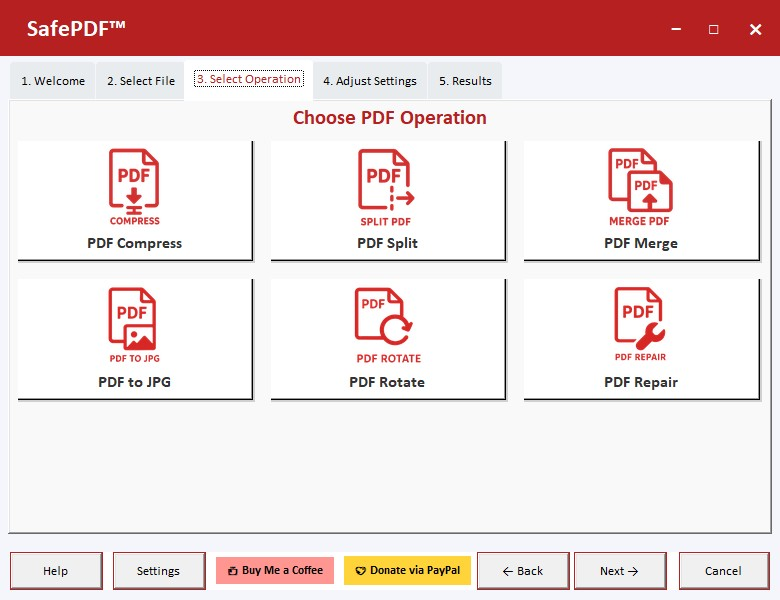
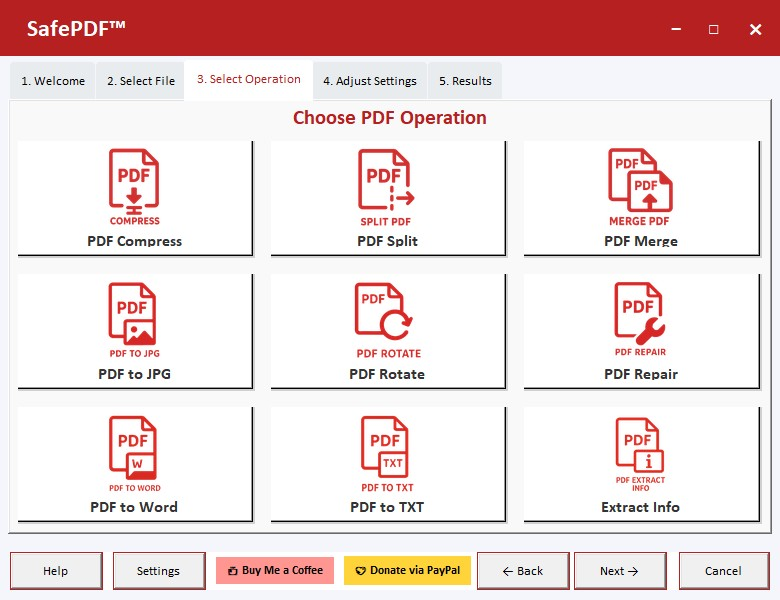
Adds PDF conversion and info extraction features
Adds functionality to convert PDFs to Word and TXT formats.

Implements a feature to extract hidden information and metadata from PDF files.

Includes UI enhancements for new functionalities and updates dependencies.

Changed region(s): [[0.0, 0.39, 0.9846, 0.9]]

diff --git a/SafePDF/pdf_operations.py b/SafePDF/pdf_operations.py
@@ -582,7 +582,173 @@ class PDFOperations:
                 
         except Exception as e:
             return {"error": str(e)}
+    
+    def pdf_to_txt(self, input_path: str, output_path: str) -> Tuple[bool, str]:
+        """
+        Extract text from PDF and save to TXT file
         
+        Args:
+            input_path: Path to input PDF file
+            output_path: Path to output TXT file
+            
+        Returns:
+            Tuple of (success: bool, message: str)
+        """
+        try:
+            if not PdfReader:
+                return False, "PyPDF2/pypdf not available"
+            
+            with open(input_path, 'rb') as file:
+                reader = PdfReader(file)
+                text_content = ""
+                
+                total_pages = len(reader.pages)
+                for i, page in enumerate(reader.pages):
+                    self.update_progress(int((i + 1) / total_pages * 100))
+                    if self._cancel_requested:
+                        return False, "Operation cancelled"
+                    
+                    text_content += page.extract_text() + "\n\n"
+                
+            with open(output_path, 'w', encoding='utf-8') as txt_file:
+                txt_file.write(text_content)
+                
+            return True, f"Text extracted to {output_path}"
+            
+        except Exception as e:
+            return False, f"Text extraction failed: {str(e)}"
+    
+    def extract_hidden_info(self, input_path: str, output_path: str) -> Tuple[bool, str]:
+        """
+        Extract hidden information and metadata from PDF
+        
+        Args:
+            input_path: Path to input PDF file
+            output_path: Path to output TXT file with extracted info
+            
+        Returns:
+            Tuple of (success: bool, message: str)
+        """
+        try:
+            if not PdfReader:
+                return False, "PyPDF2/pypdf not available"
+            
+            info = self.get_pdf_info(input_path)
+            if "error" in info:
+                return False, info["error"]
+            
+            # Extract additional hidden information
+            hidden_info = []
+            hidden_info.append("=== PDF METADATA ===")
+            hidden_info.append(f"Title: {info.get('title', 'N/A')}")
+            hidden_info.append(f"Author: {info.get('author', 'N/A')}")
+            hidden_info.append(f"Creator: {info.get('creator', 'N/A')}")
+            hidden_info.append(f"Producer: {info.get('producer', 'N/A')}")
+            hidden_info.append(f"Pages: {info.get('pages', 'N/A')}")
+            hidden_info.append(f"File Size: {info.get('file_size', 'N/A')} bytes")
+            
+            # Try to extract more detailed info
+            try:
+                with open(input_path, 'rb') as file:
+                    reader = PdfReader(file)
+                    
+                    # Check for JavaScript
+                    if hasattr(reader, 'javascript') and reader.javascript:
+                        hidden_info.append("\n=== JAVASCRIPT FOUND ===")
+                        for js in reader.javascript:
+                            hidden_info.append(f"JavaScript: {js}")
+                    
+                    # Check for embedded files
+                    if hasattr(reader, 'attachments') and reader.attachments:
+                        hidden_info.append("\n=== EMBEDDED FILES ===")
+                        for name, data in reader.attachments.items():
+                            hidden_info.append(f"Attachment: {name} ({len(data)} bytes)")
+                    
+                    # Check for form fields
+                    if hasattr(reader, 'get_fields') and reader.get_fields():
+                        hidden_info.append("\n=== FORM FIELDS ===")
+                        fields = reader.get_fields()
+                        for field_name, field in fields.items():
+                            hidden_info.append(f"Field: {field_name} - {field.get('/FT', 'Unknown type')}")
+                            
+            except Exception as e:
+                hidden_info.append(f"\nError extracting additional info: {str(e)}")
+            
+            # Write to output file
+            with open(output_path, 'w', encoding='utf-8') as f:
+                f.write('\n'.join(hidden_info))
+            
+            return True, f"Hidden information extracted to {output_path}"
+            
+        except Exception as e:
+            return False, f"Hidden info extraction failed: {str(e)}"
+    
+    def pdf_to_word(self, input_path: str, output_path: str) -> Tuple[bool, str]:
+        """
+        Convert PDF to Word document
+        
+        Args:
+            input_path: Path to input PDF file
+            output_path: Path to output DOCX file
+            
+        Returns:
+            Tuple of (success: bool, message: str)
+        """
+        try:
+            # Try to import python-docx
+            try:
+                from docx import Document
+                from docx.shared import Inches
+            except ImportError:
+                return False, "python-docx not installed. Please install with: pip install python-docx"
+            
+            if not fitz:
+                return False, "PyMuPDF not available for PDF to Word conversion"
+            
+            # Open PDF with PyMuPDF
+            doc = Document()
+            pdf_document = fitz.open(input_path)
+            
+            total_pages = len(pdf_document)
+            for page_num in range(total_pages):
+                self.update_progress(int((page_num + 1) / total_pages * 100))
+                if self._cancel_requested:
+                    return False, "Operation cancelled"
+                
+                page = pdf_document.load_page(page_num)
+                text = page.get_text()
+                
+                # Add page content to document
+                doc.add_heading(f'Page {page_num + 1}', level=1)
+                doc.add_paragraph(text)
+                
+                # Try to extract images
+                image_list = page.get_images(full=True)
+                for img_index, img in enumerate(image_list):
+                    xref = img[0]
+                    base_image = pdf_document.extract_image(xref)
+                    image_bytes = base_image["image"]
+                    image_ext = base_image["ext"]
+                    
+                    # Save image temporarily and add to doc
+                    temp_img_path = f"temp_image_{page_num}_{img_index}.{image_ext}"
+                    with open(temp_img_path, "wb") as img_file:
+                        img_file.write(image_bytes)
+                    
+                    try:
+                        doc.add_picture(temp_img_path, width=Inches(4))
+                        unlink(temp_img_path)  # Clean up temp file
+                    except:
+                        unlink(temp_img_path)  # Clean up even if add fails
+            
+            pdf_document.close()
+            doc.save(output_path)
+            
+            return True, f"PDF converted to Word document: {output_path}"
+            
+        except Exception as e:
+            return False, f"PDF to Word conversion failed: {str(e)}"
+    
     def _show_compression_error_popup(self):
         """
         Show a custom popup with compression error gif when no compression is achieved

diff --git a/SafePDF/safe_pdf_controller.py b/SafePDF/safe_pdf_controller.py
@@ -57,7 +57,7 @@ class SafePDFController:
     
     def select_operation(self, operation):
         """Select a PDF operation"""
-        valid_operations = ["compress", "split", "merge", "to_jpg", "rotate", "repair"]
+        valid_operations = ["compress", "split", "merge", "to_jpg", "rotate", "repair", "to_word", "to_txt", "extract_info"]
         if operation in valid_operations:
             self.selected_operation = operation
             return True
@@ -89,9 +89,16 @@ class SafePDFController:
                 return custom_output_path, None
         
         # Default paths with minimal processing
-        if self.selected_operation in ["compress", "rotate", "repair"]:
+        if self.selected_operation in ["compress", "rotate", "repair", "to_word", "to_txt", "extract_info"]:
             base_name = os_path.splitext(self.selected_file)[0]
-            return f"{base_name}_{self.selected_operation}.pdf", None
+            if self.selected_operation == "to_word":
+                return f"{base_name}.docx", None
+            elif self.selected_operation == "to_txt":
+                return f"{base_name}.txt", None
+            elif self.selected_operation == "extract_info":
+                return f"{base_name}_info.txt", None
+            else:
+                return f"{base_name}_{self.selected_operation}.pdf", None
         else:
             base_dir = os_path.dirname(self.selected_file)
             base_name = os_path.splitext(os_path.basename(self.selected_file))[0]
@@ -176,6 +183,24 @@ class SafePDFController:
                     except Exception as e:
                         success = False
                         message = f"Merge failed: {e}"
+            
+            elif self.selected_operation == "to_word":
+                # PDF to Word conversion
+                base_name = os_path.splitext(self.selected_file)[0]
+                output_path = f"{base_name}.docx"
+                success, message = self.pdf_ops.pdf_to_word(self.selected_file, output_path)
+                
+            elif self.selected_operation == "to_txt":
+                # PDF to TXT conversion
+                base_name = os_path.splitext(self.selected_file)[0]
+                output_path = f"{base_name}.txt"
+                success, message = self.pdf_ops.pdf_to_txt(self.selected_file, output_path)
+                
+            elif self.selected_operation == "extract_info":
+                # Extract hidden information
+                base_name = os_path.splitext(self.selected_file)[0]
+                output_path = f"{base_name}_info.txt"
+                success, message = self.pdf_ops.extract_hidden_info(self.selected_file, output_path)
             
             # Store current output location
             self.current_output = output_path or output_dir if success else None

diff --git a/SafePDF/ui/safe_pdf_ui.py b/SafePDF/ui/safe_pdf_ui.py
@@ -768,6 +768,9 @@ class SafePDFUI:
             ("PDF to JPG", "Convert to images", self.select_to_jpg, "assets/pdf2jpg.png"),
             ("PDF Rotate", "Rotate pages", self.select_rotate, "assets/rotate.png"),
             ("PDF Repair", "Fix corrupted files", self.select_repair, "assets/repair.png"),
+            ("PDF to Word", "Convert to document", self.select_to_word, "assets/pdf2word.png"),
+            ("PDF to TXT", "Extract text", self.select_to_txt, "assets/pdf2txt.png"),
+            ("Extract Info", "Hidden PDF data", self.select_extract_info, "assets/extract.png"),
         ]
         
         self.operation_buttons = []
@@ -890,8 +893,8 @@ class SafePDFUI:
             # Store the main clickable element for reference
             self.operation_buttons.append(clickable_widgets[0] if clickable_widgets else op_frame)
 
-        # Configure grid weights for 2-column layout (3 rows for 6 operations)
-        for i in range(2):  # 2 columns
+        # Configure grid weights for 3-column layout (3 rows for 9 operations)
+        for i in range(3):  # 3 columns
             operations_container.grid_columnconfigure(i, weight=1)
         for i in range(3):  # 3 rows
             operations_container.grid_rowconfigure(i, weight=1)
@@ -937,6 +940,12 @@ class SafePDFUI:
             relief=tk.FLAT
         )
         self.results_text.config(state=tk.DISABLED)
+
+        # Insert informational message
+        self.results_text.config(state=tk.NORMAL)
+        self.results_text.insert('1.0', "When selected operation finishes, the results will be displayed here.\nPlease go back and select the operation.")
+        self.results_text.config(state=tk.DISABLED)
+
 
         # Progress bar - initialize to 0
         self.progress = ttk.Progressbar(main_frame, mode='determinate', style="TProgressbar", value=0)
@@ -2130,3 +2139,21 @@ class SafePDFUI:
             pass
         style.map("TNotebook.Tab", foreground=[("selected", RED_COLOR), ("active", RED_COLOR)])
 
+
+    def select_to_word(self):
+        self.controller.select_operation("to_word")
+        self.highlight_selected_operation(6)
+        self.update_settings_for_operation()
+        self.notebook.select(3)
+    
+    def select_to_txt(self):
+        self.controller.select_operation("to_txt")
+        self.highlight_selected_operation(7)
+        self.update_settings_for_operation()
+        self.notebook.select(3)
+    
+    def select_extract_info(self):
+        self.controller.select_operation("extract_info")
+        self.highlight_selected_operation(8)
+        self.update_settings_for_operation()
+        self.notebook.select(3)
